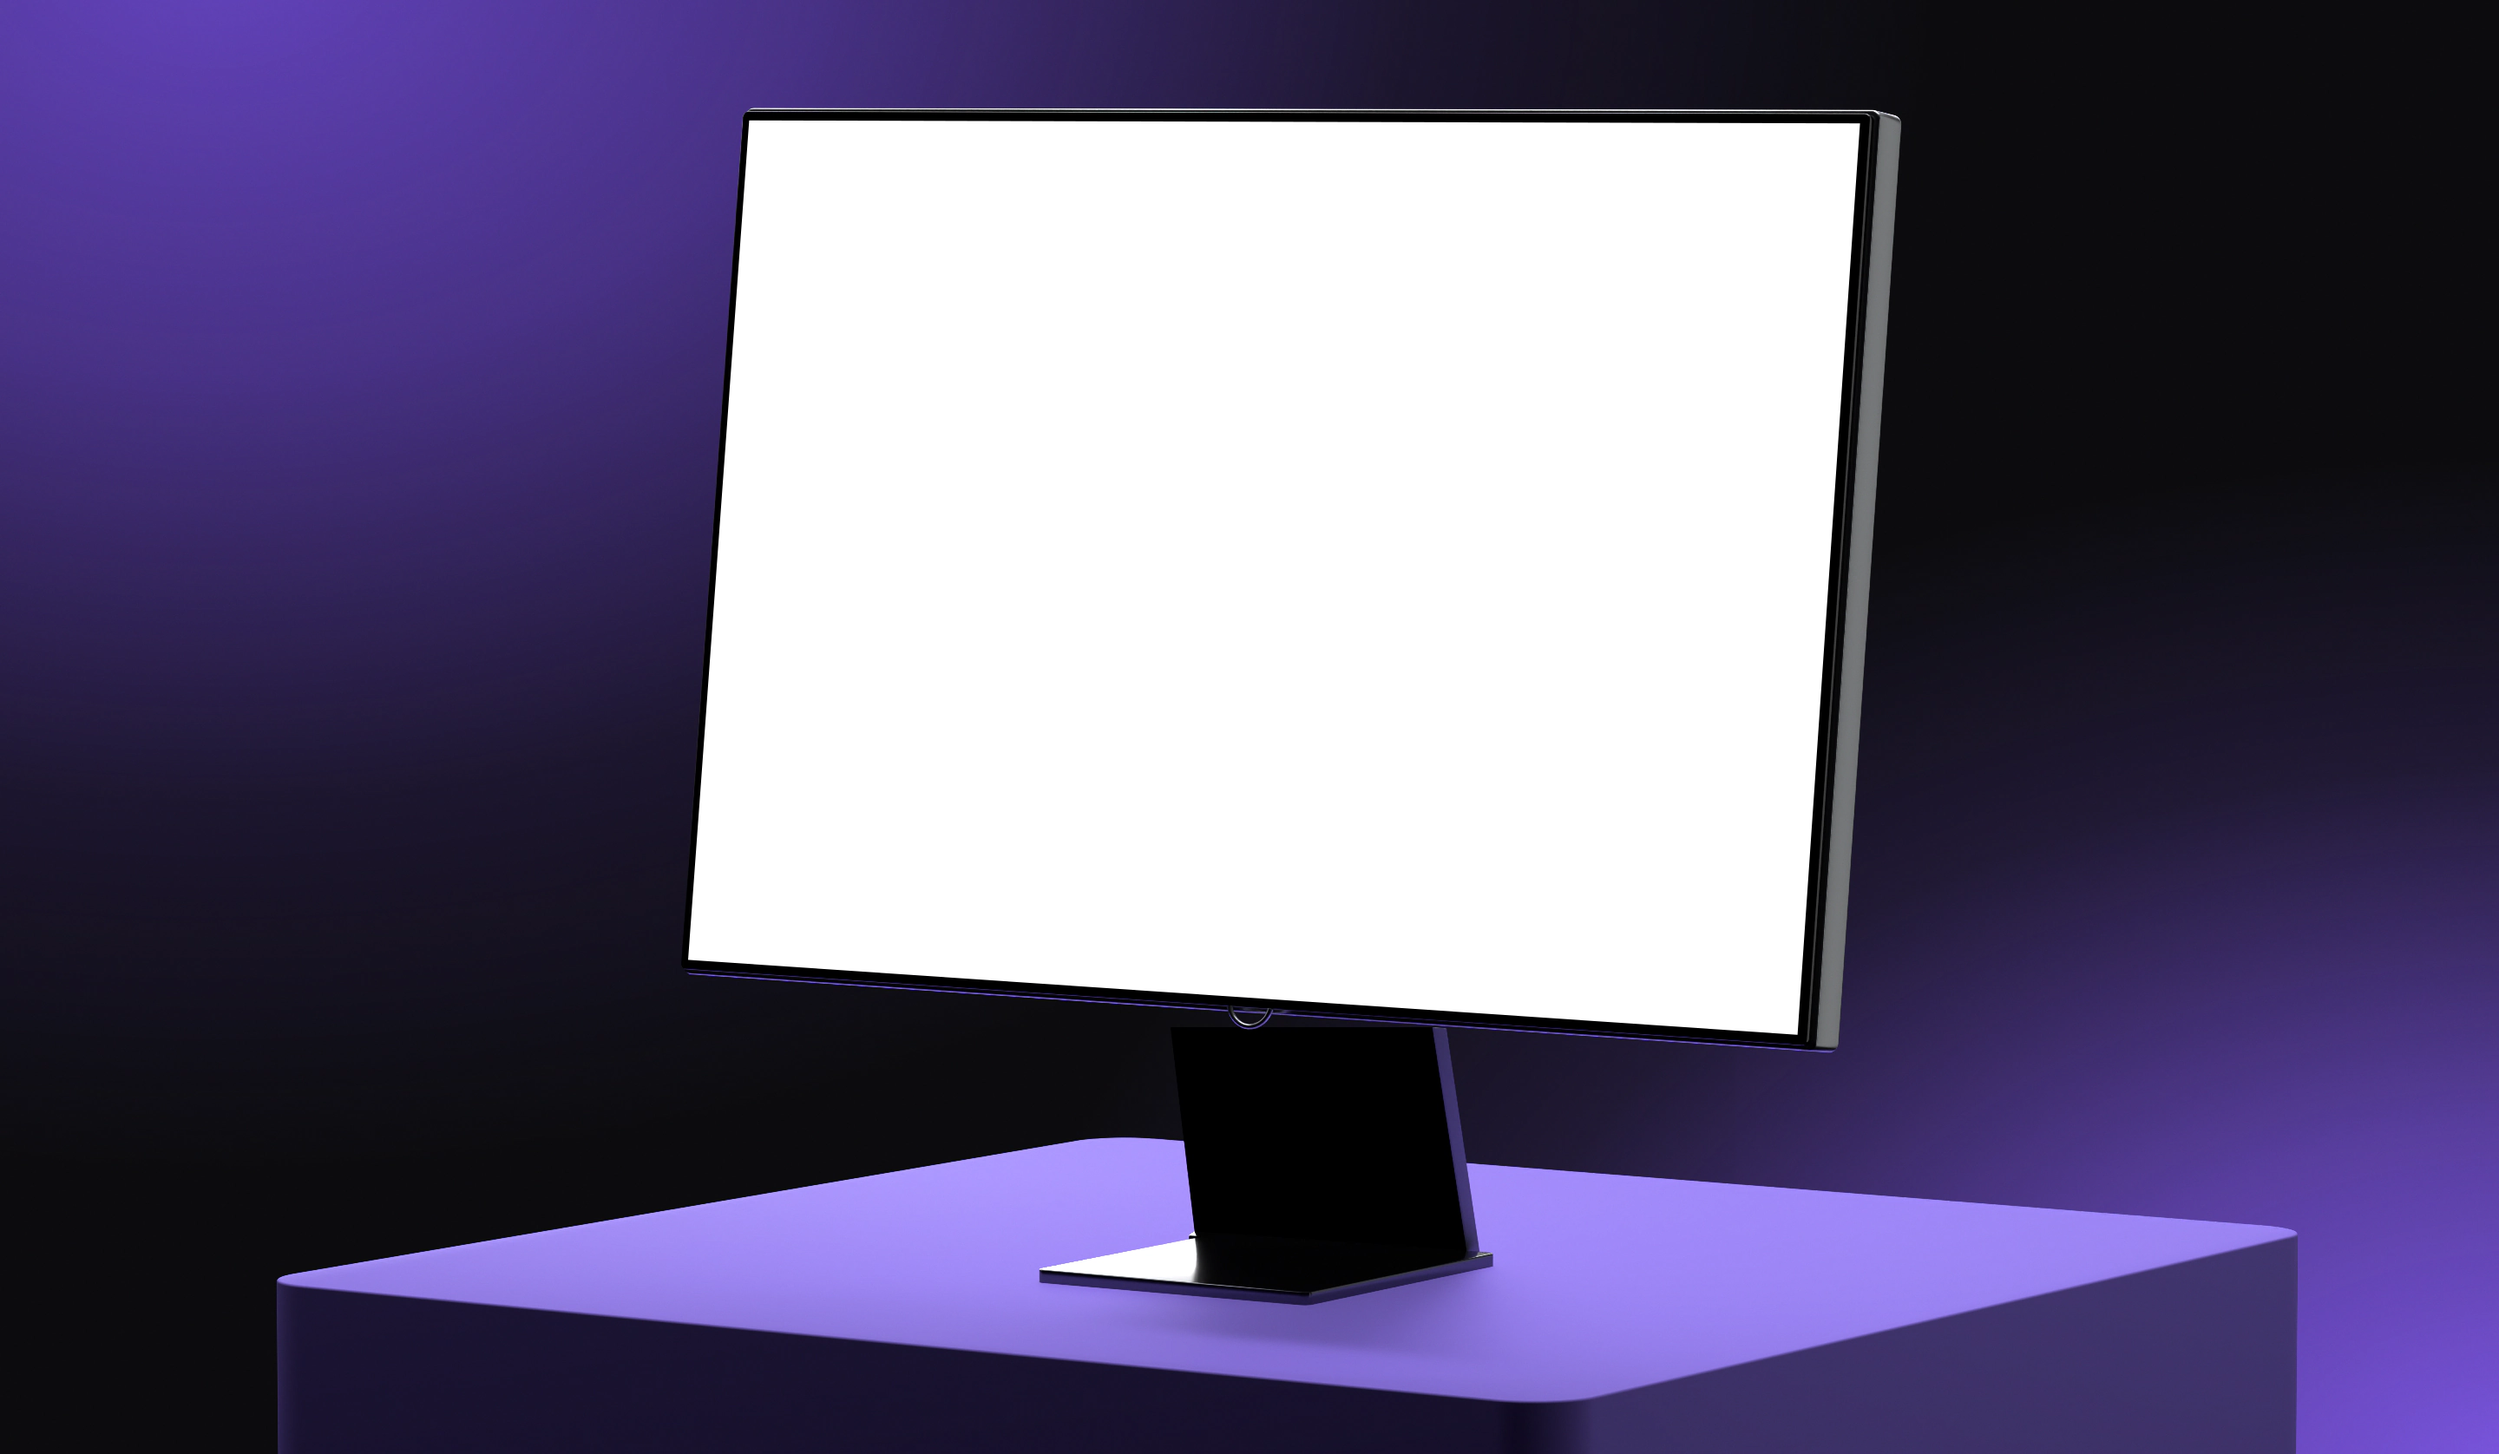
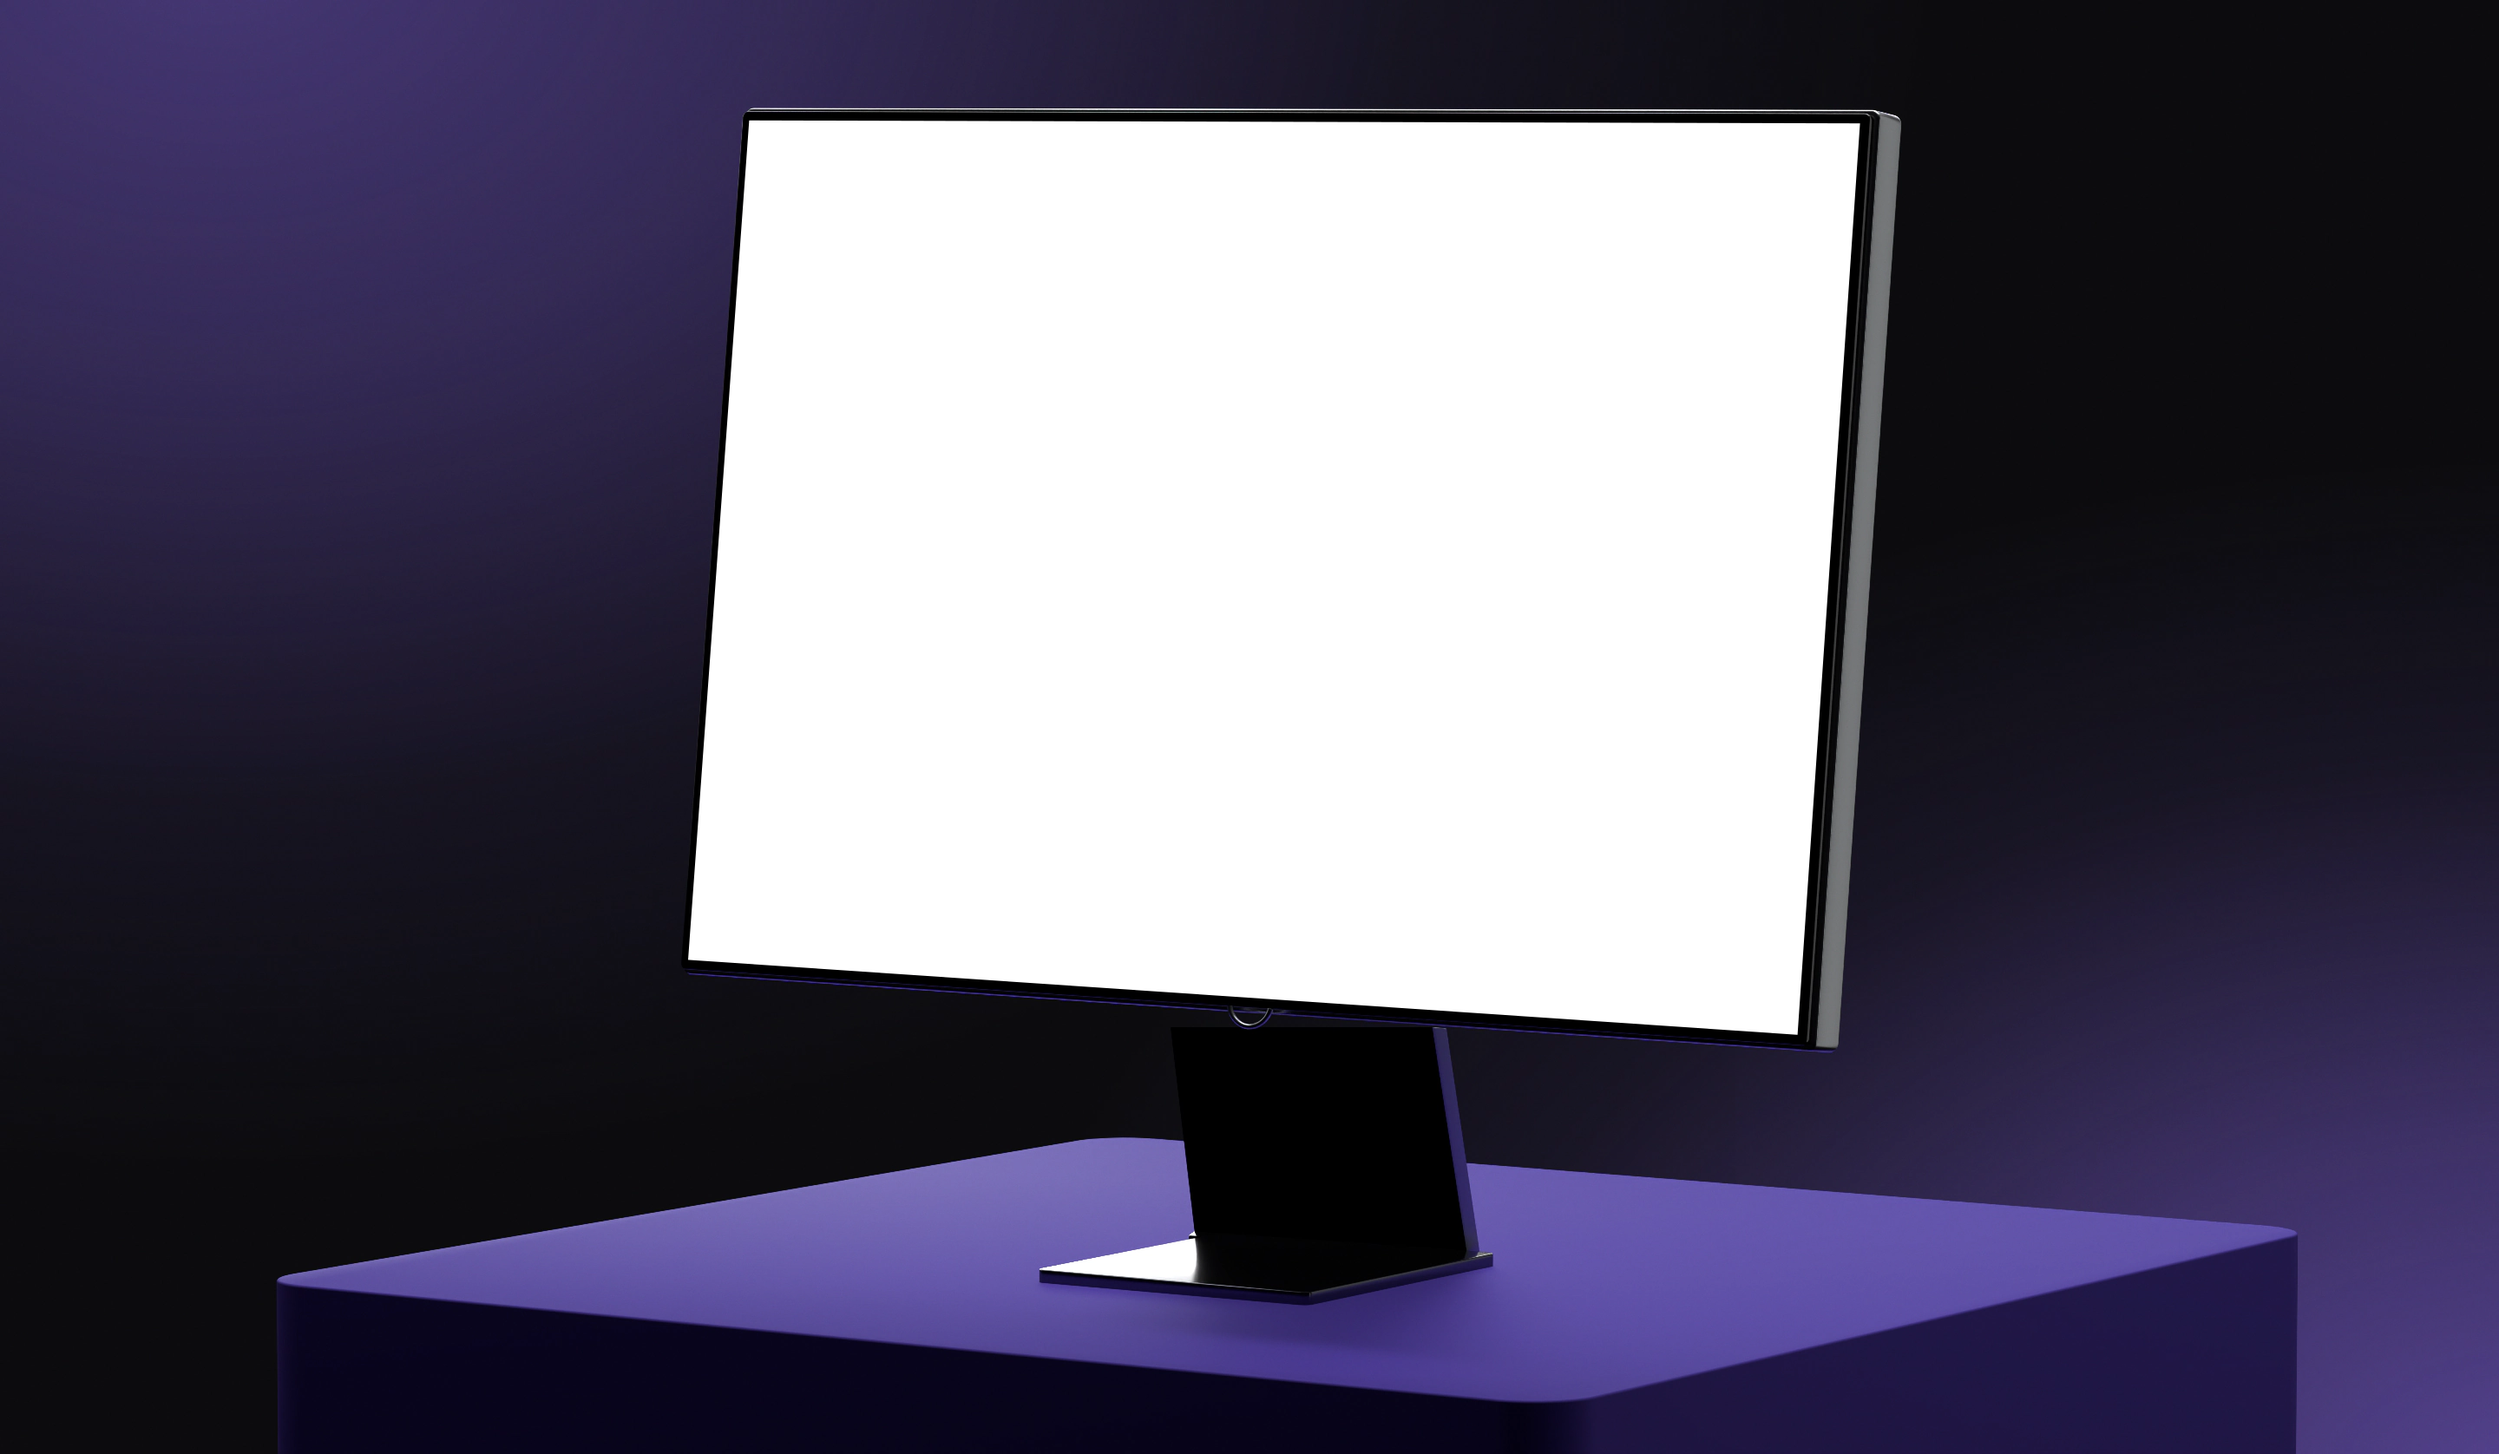
Devsign cover: deep violet plinth and backdrop, app ground joins the bezel

diff --git a/app/globals.css b/app/globals.css
@@ -7904,7 +7904,7 @@ p.dv-ivc-people { display: flex; flex-wrap: wrap; align-items: center; gap: 8px;
 .case-study .dv .dv-gs:not([data-pinned]) .dv-gs-title { font-size: 20px; letter-spacing: -0.01em; }
 .case-study:is([data-project="devsign"], [data-project="gemini"]) .dv > section :is(.dv-headline, .dv-finding) { letter-spacing: -0.02em; }
 /* The Devsign screen is the brightest thing on the cover (owner): the recording of a dark app is lifted a little. */
-.devsign-hero.dh-cover[data-project="devsign"] .dh-shot .dh-clip video { filter: brightness(1.3) contrast(1.16) saturate(0.8); }
+.devsign-hero.dh-cover[data-project="devsign"] .dh-shot .dh-clip video { filter: brightness(1.1) contrast(1.3) saturate(0.85); }
 
 /* Gemini opener: the name on two lines at Devsign's size, and a dark room where the phone is the only light (privacy: only you see the screen). */
 .devsign-hero.dh-cover[data-project="gemini-privacy"] .devsign-hero-title { font-size: clamp(64px, 8.4vw, 168px); line-height: .95; }
@@ -7989,7 +7989,7 @@ p.dv-ivc-people { display: flex; flex-wrap: wrap; align-items: center; gap: 8px;
 .home-device > .dh-shot { position: absolute; inset: 0; width: 100%; height: 100%; aspect-ratio: auto; }
 .home-device .dh-shot-camera, .project-zoom .dh-shot-camera { animation: none; }
 .dh-shot-poster { position: absolute; inset: 0; width: 100%; height: 100%; object-fit: cover; }
-.home-device[data-project="devsign"] .dh-shot-poster, .project-zoom[data-project="devsign"] .dh-shot-poster { filter: brightness(1.3) contrast(1.16) saturate(0.8); }
+.home-device[data-project="devsign"] .dh-shot-poster, .project-zoom[data-project="devsign"] .dh-shot-poster { filter: brightness(1.1) contrast(1.3) saturate(0.85); }
 .project-zoom:has(.dh-shot) { background: #0c0c0e; }
 .project-zoom[data-project="gemini-privacy"]:has(.dh-shot) { background: #1c1a24; }
 

diff --git a/scripts/cover-3d/blender_scene.py b/scripts/cover-3d/blender_scene.py
@@ -49,11 +49,11 @@ def mat(name, color, rough, metal=0.0, coat=0.0, spec=0.5):
     b.inputs['Coat Roughness'].default_value = 0.08
     return m
 
-PURPLE = mat('plinth', '#8f76e8', 0.7, spec=0.04)
+PURPLE = mat('plinth', '#4d3a9c', 0.7, spec=0.04)
 SILVER = mat('silver', '#c9cdd0', 0.26, metal=1)
 BLACKM = mat('stand', '#050506', 0.3, metal=1)
 NECKM = mat('neck', '#020203', 0.45, spec=0.0)
-STRIP = mat('strip', '#70747a', 0.5, spec=0.3)
+STRIP = mat('strip', '#a4a8ae', 0.5, spec=0.3)
 FOOTM = mat('foot', '#60626a', 0.16, metal=1)
 GLASS = mat('bezel', '#040405', 0.12, coat=1)
 
